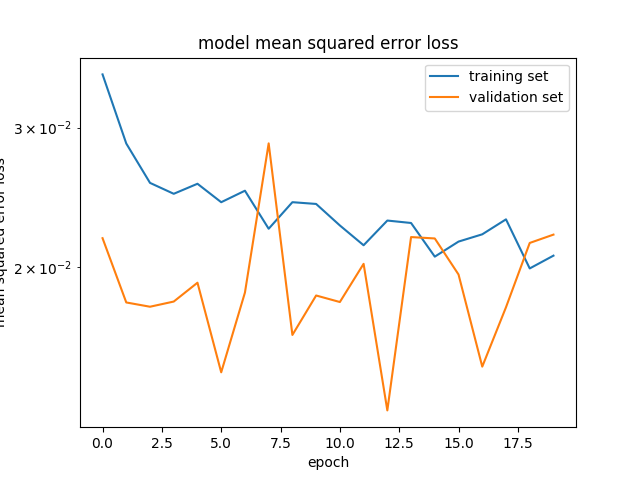
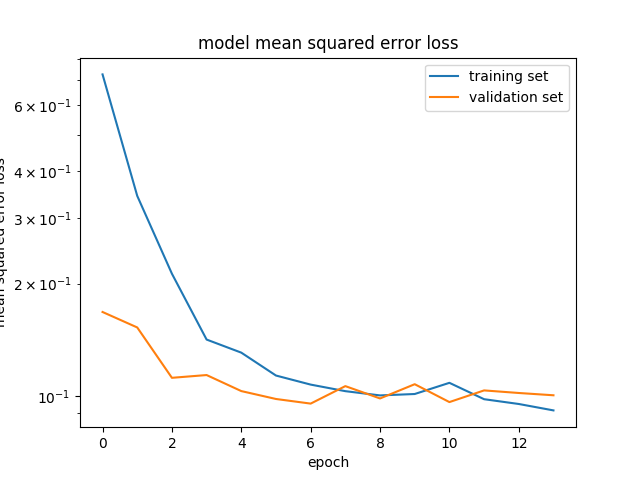
Update P3 source code which trained a model for both tracks

diff --git a/CarND-Behavioral-Cloning-P3/model.py b/CarND-Behavioral-Cloning-P3/model.py
@@ -5,18 +5,14 @@ import sklearn
 import math
 
 ### Load dataset from csv ####
+files = ['./my_data/driving_track1_log.csv', './my_data/driving_track2_log.csv', './my_data/driving_log.csv']
 samples = []
-with open('./data/driving_log.csv') as csvfile:
-    reader = csv.reader(csvfile)
-    next(reader, None)
-    for line in reader:
-        samples.append(line)
-
-# with open('./recover_data/driving_log.csv') as csvfile:
-#     reader = csv.reader(csvfile)
-#     next(reader, None)
-#     for line in reader:
-#         samples.append(line)
+for filepath in files:
+    with open(filepath) as csvfile:
+        reader = csv.reader(csvfile)
+        next(reader, None)
+        for line in reader:
+            samples.append(line)
 
 from sklearn.model_selection import train_test_split
 train_samples, valid_samples = train_test_split(samples, test_size=0.2)
@@ -25,17 +21,6 @@ def flip_data(image, angle):
     image_flipped = np.fliplr(image)
     angle_flipped = -angle
     return image_flipped, angle_flipped
-
-# def random_shift(image, angle):
-#     h,w,_ = image.shape
-#     # allow shift up to px pixels in x and y directions
-#     px = 40
-#     x = np.random.randint(-px,px)
-#     T = np.float32([[1, 0, x], [0, 1, 0]]) 
-#     image_shifted = cv2.warpAffine(image, T, (w, h)) 
-#     angle_shifted = 0.02 * px
-#     return image_shifted, angle_shifted
-    
 
 def generator(samples, batch_size=32, train_mode=False):
     print("Number of original data: {0}".format(len(samples)))
@@ -46,12 +31,12 @@ def generator(samples, batch_size=32, train_mode=False):
         center_angle = float(sample[3])
         if train_mode and abs(center_angle) < 0.0001:
             continue
-#             num = np.random.randint(0,100)
-#             if num >= 30:
-#                 continue
+            # num = np.random.randint(0,100)
+            # if num >= 30:
+            #     continue
                 
         filename = sample[0].split('/')[-1]
-        current_path = os.path.join('./data/IMG/', filename)
+        current_path = os.path.join('./my_data/IMG/', filename)
         center_image = cv2.imread(current_path)
         
         # Pre-processing
@@ -65,10 +50,10 @@ def generator(samples, batch_size=32, train_mode=False):
         images.append(center_image)
         angles.append(center_angle)
         
-        if train_mode:
-            image_flipped, angle_flipped = flip_data(center_image, center_angle)
-            images.append(image_flipped)
-            angles.append(angle_flipped)
+#         if train_mode:
+#             image_flipped, angle_flipped = flip_data(center_image, center_angle)
+#             images.append(image_flipped)
+#             angles.append(angle_flipped)
         
     X = np.array(images)
     y = np.array(angles)
@@ -91,17 +76,18 @@ from keras.layers.convolutional import Convolution2D
 from keras.layers.pooling import MaxPooling2D
 from keras.callbacks import EarlyStopping, ModelCheckpoint
 
-batch_size = 128
+batch_size = 256
 
 model = Sequential()
 model.add(Lambda(lambda x: x / 255 - 0.5, input_shape=(160, 320, 3)))
-model.add(Cropping2D(cropping=((80, 25),(0, 0))))
+model.add(Cropping2D(cropping=((50, 25),(0, 0))))
 model.add(Convolution2D(24, (5, 5), strides=2, activation='relu'))
 model.add(Convolution2D(36, (5, 5), strides=2, activation='relu'))
 model.add(Convolution2D(48, (5, 5), strides=1, activation='relu'))
 model.add(Convolution2D(64, (3, 3), strides=1, activation='relu'))
+model.add(Dropout(0.5))
 model.add(Convolution2D(64, (3, 3), strides=1, activation='relu'))
-model.add(Dropout(0.3))
+model.add(Dropout(0.5))
 model.add(Flatten())
 model.add(Dense(100))
 model.add(Dense(50))
@@ -111,8 +97,8 @@ model.add(Dense(1))
 # model.summary()
 
 #### Training
-train_generator = generator(train_samples, train_mode=True)
-valid_generator = generator(valid_samples, train_mode=False)
+train_generator = generator(train_samples, batch_size=batch_size, train_mode=True)
+valid_generator = generator(valid_samples, batch_size=batch_size, train_mode=False)
 
 model.compile(loss='mse', optimizer='adam')
 

diff --git a/CarND-Behavioral-Cloning-P3/drive.py b/CarND-Behavioral-Cloning-P3/drive.py
@@ -44,7 +44,7 @@ class SimplePIController:
 
 
 controller = SimplePIController(0.1, 0.002)
-set_speed = 15
+set_speed = 9
 controller.set_desired(set_speed)
 
 
